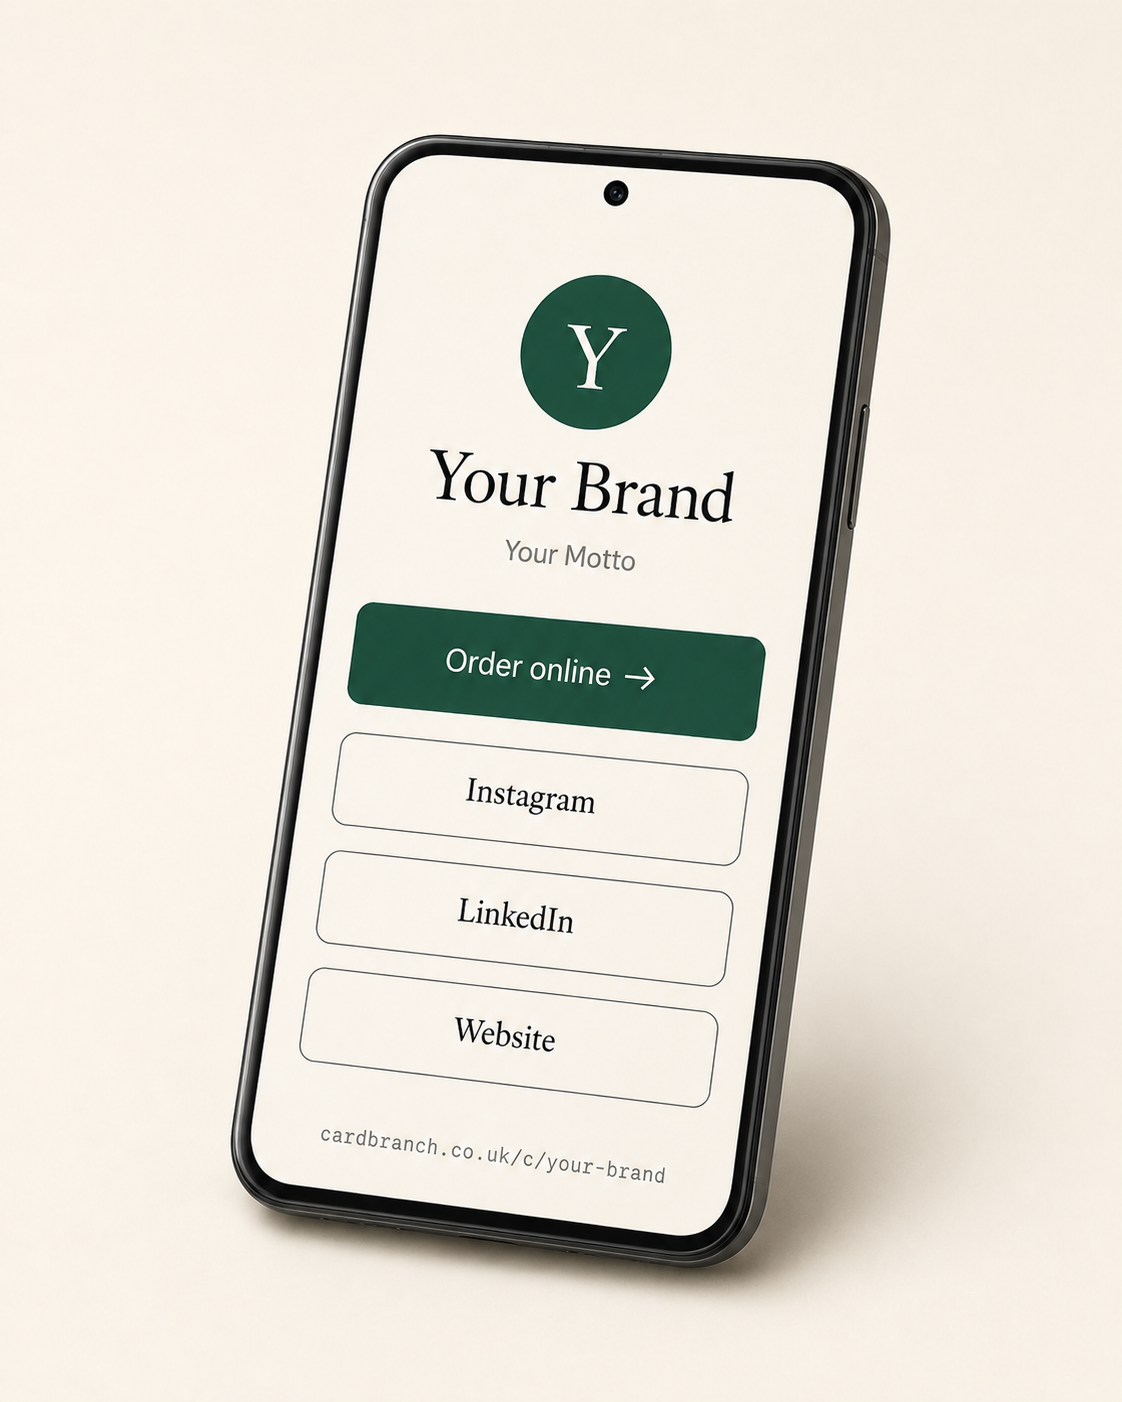
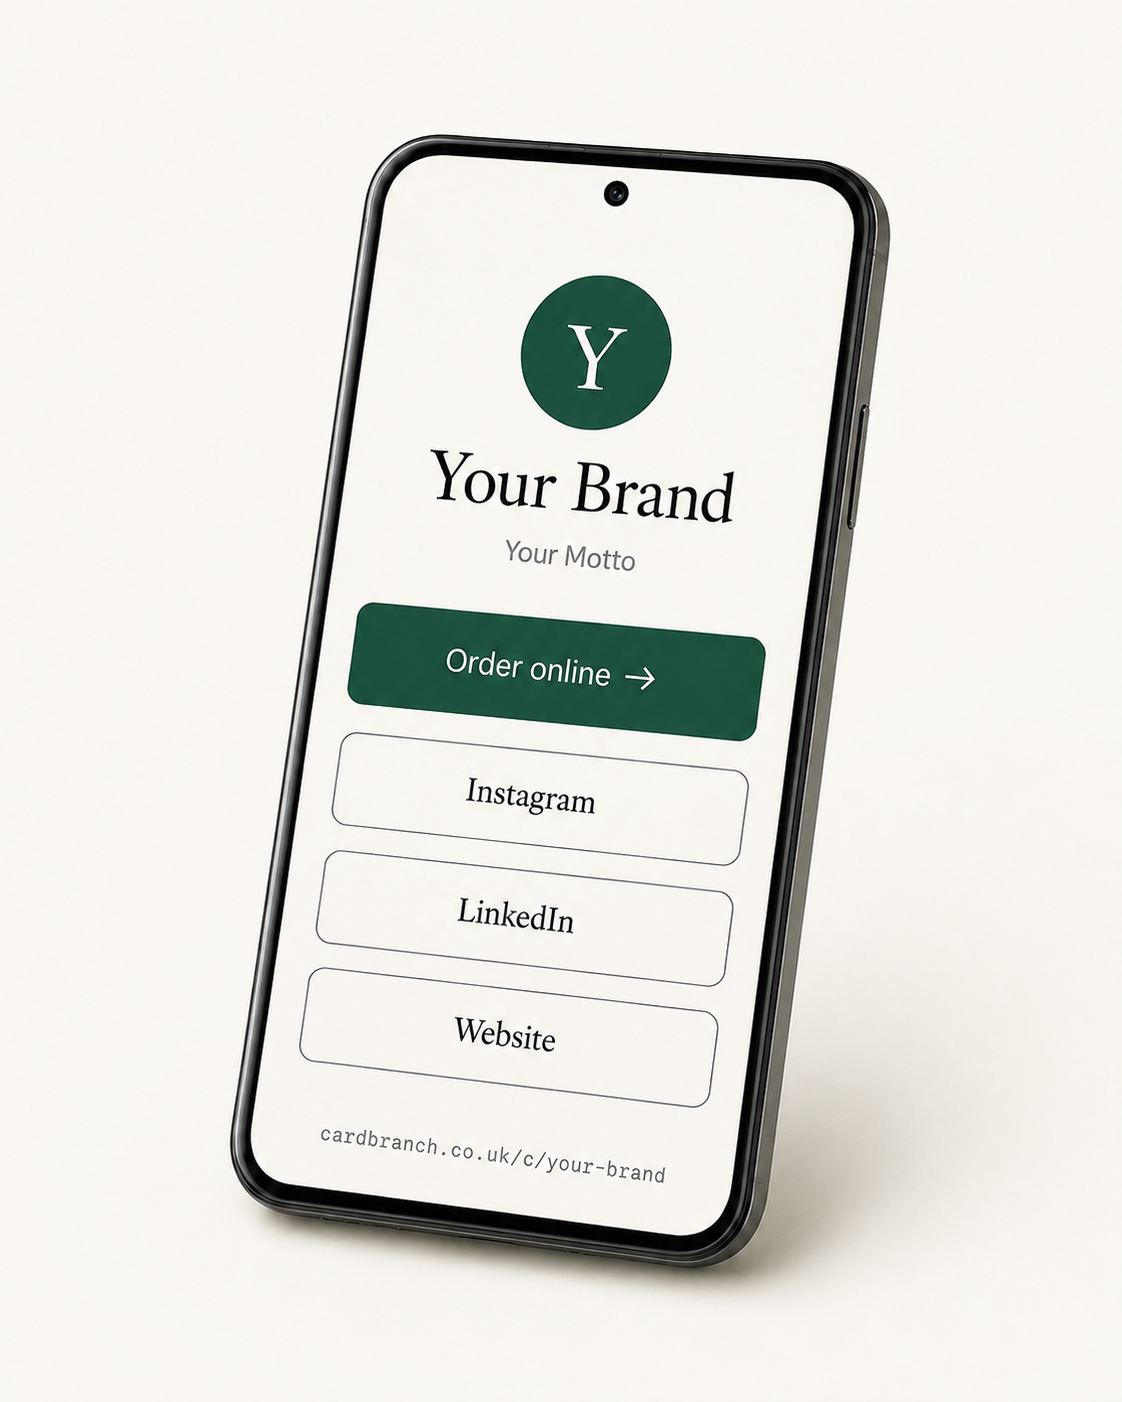
Fix flash message rendering on auth pages, add card creation loading overlay

diff --git a/templates/dashboard/card_new.html b/templates/dashboard/card_new.html
@@ -360,4 +360,43 @@ document.getElementById('preview-front').style.background = currentBg;
 updatePreview();
 </script>
 
+<div id="card-creating-overlay" style="display:none; position:fixed; inset:0; background:var(--bg-primary); z-index:9999; align-items:center; justify-content:center; flex-direction:column; gap:1rem;">
+  <img src="{{ url_for('static', filename='images/logo.png') }}" alt="" style="width:64px; height:64px; object-fit:contain;">
+  <div style="width:40px; height:40px; border:3px solid var(--border); border-top-color:var(--accent); border-radius:50%; animation:cardbranch-spin 0.8s linear infinite;"></div>
+  <p style="font-family:'Schibsted Grotesk', sans-serif; color:var(--text-primary); font-size:0.95rem; text-align:center; padding:0 2rem; line-height:1.5;">
+    Creating your card — this can take 15–20 seconds…
+  </p>
+</div>
+
+<style>
+@keyframes cardbranch-spin {
+  to { transform: rotate(360deg); }
+}
+</style>
+
+<script>
+document.addEventListener('DOMContentLoaded', function () {
+  const form = document.getElementById('card-form');
+  const overlay = document.getElementById('card-creating-overlay');
+  if (!form || !overlay) return;
+
+  let isSubmitting = false;
+
+  form.addEventListener('submit', function (e) {
+    if (!form.checkValidity()) return;
+    if (isSubmitting) {
+      e.preventDefault();
+      return;
+    }
+    isSubmitting = true;
+
+    overlay.style.display = 'flex';
+    const submitBtn = form.querySelector('button[type="submit"], input[type="submit"]');
+    if (submitBtn) {
+      submitBtn.disabled = true;
+      submitBtn.setAttribute('aria-busy', 'true');
+    }
+  });
+});
+</script>
 {% endblock %}

diff --git a/templates/auth/login.html b/templates/auth/login.html
@@ -1,4 +1,5 @@
 {% extends "layouts/base.html" %}
+{% block global_flashes %}{% endblock %}
 {% block title %}Sign In - CardBranch{% endblock %}
 {% block content %}
 <div class="auth-split">
@@ -14,6 +15,13 @@
                 <h1 style="font-size:26px; font-weight:400; color:var(--text-primary); font-family:'Newsreader',serif;">Welcome back</h1>
                 <p style="color:var(--text-secondary); font-size:14px; margin-top:4px;">Sign in to manage your cards</p>
             </div>
+            {% with messages = get_flashed_messages(with_categories=true) %}
+            {% if messages %}
+            {% for category, message in messages %}
+            <div class="flash {{ category }}" style="margin-bottom:16px;">{{ message }}</div>
+            {% endfor %}
+            {% endif %}
+            {% endwith %}
             <form method="POST">
                 {{ form.hidden_tag() }}
                 <div style="margin-bottom:16px;">

diff --git a/templates/auth/register.html b/templates/auth/register.html
@@ -1,4 +1,5 @@
 {% extends "layouts/base.html" %}
+{% block global_flashes %}{% endblock %}
 {% block title %}Register - CardBranch{% endblock %}
 {% block content %}
 <div class="auth-split">
@@ -8,6 +9,13 @@
                 <h1 style="font-size:26px; font-weight:400; color:var(--text-primary); font-family:'Newsreader',serif;">Create your card</h1>
                 <p style="color:var(--text-secondary); font-size:14px; margin-top:4px;">Free to start. No card to print until you're ready.</p>
             </div>
+            {% with messages = get_flashed_messages(with_categories=true) %}
+            {% if messages %}
+            {% for category, message in messages %}
+            <div class="flash {{ category }}">{{ message }}</div>
+            {% endfor %}
+            {% endif %}
+            {% endwith %}
             <form method="POST">
                 {{ form.hidden_tag() }}
                 <div style="margin-bottom:16px;">

diff --git a/templates/layouts/dashboard.html b/templates/layouts/dashboard.html
@@ -25,13 +25,6 @@
 </nav>
 <div class="main-content" style="background:var(--bg-primary); min-height:100vh; padding:40px 0;">
     <div class="container">
-        {% with messages = get_flashed_messages(with_categories=true) %}
-        {% if messages %}
-        {% for category, message in messages %}
-        <div class="flash {{ category }}">{{ message }}</div>
-        {% endfor %}
-        {% endif %}
-        {% endwith %}
         {% block dashboard_content %}{% endblock %}
     </div>
 </div>

diff --git a/templates/layouts/admin.html b/templates/layouts/admin.html
@@ -19,13 +19,6 @@
 </nav>
 <div class="main-content" style="background:var(--bg-primary); min-height:100vh; padding:40px 0;">
     <div class="container">
-        {% with messages = get_flashed_messages(with_categories=true) %}
-        {% if messages %}
-        {% for category, message in messages %}
-        <div class="flash {{ category }}">{{ message }}</div>
-        {% endfor %}
-        {% endif %}
-        {% endwith %}
         {% block admin_content %}{% endblock %}
     </div>
 </div>

diff --git a/templates/layouts/base.html b/templates/layouts/base.html
@@ -93,6 +93,15 @@
 </head>
 <body>
 <main>
+    {% block global_flashes %}
+    {% with messages = get_flashed_messages(with_categories=true) %}
+    {% if messages %}
+    {% for category, message in messages %}
+    <div class="flash {{ category }}">{{ message }}</div>
+    {% endfor %}
+    {% endif %}
+    {% endwith %}
+    {% endblock %}
     {% block content %}{% endblock %}
 </main>
 </body>
